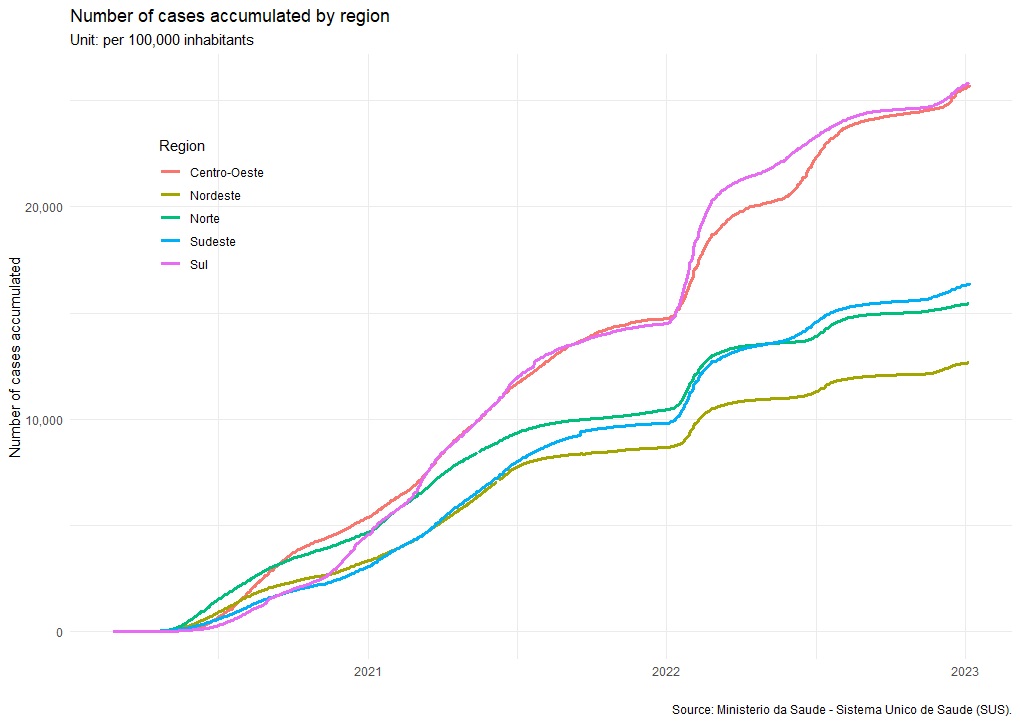
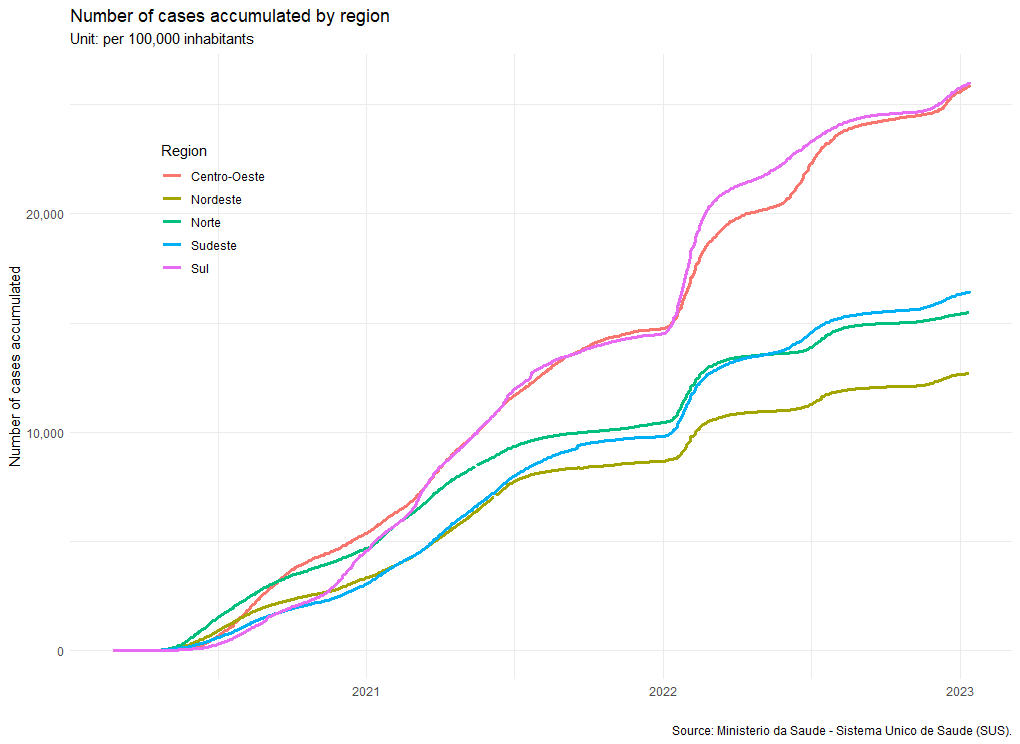
Update README file

diff --git a/README.md b/README.md
@@ -115,7 +115,7 @@ Data source: [Ministerio da Saude - Sistema Unico de Saude
 
 Below is the graph for the number of cases accumulated per 100,000
 inhabitants for each of the five macro-regions in Brazil, information
-until the 2023-01-06.
+until the 2023-01-13.
 
 <img src="man/figures/cases100.png" width="100%" />  
 
@@ -138,7 +138,7 @@ Data source: [Ministerio da Saude - Sistema Unico de Saude
 
 The graph below shows the number of accumulated deaths per 100,000
 inhabitants for each of Brazil’s five macro-regions, information until
-the 2023-01-06.
+the 2023-01-13.
 
 <img src="man/figures/deaths100.png" width="100%" />  
 
